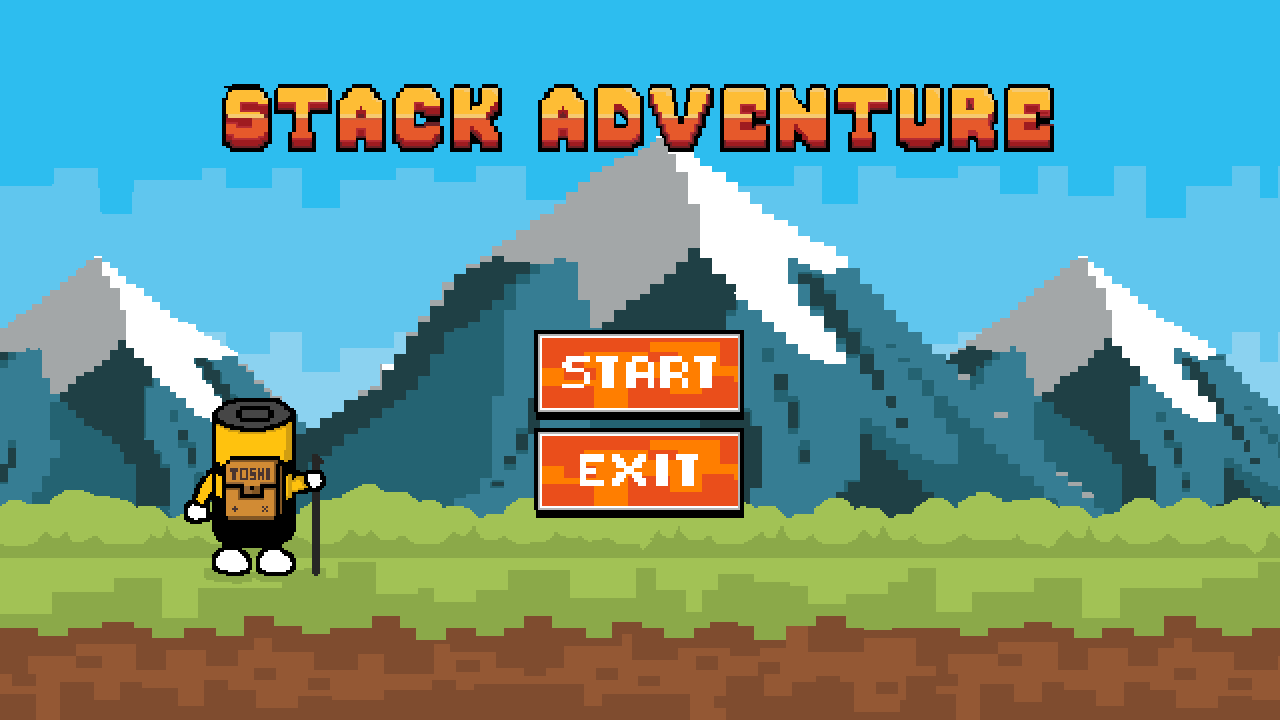
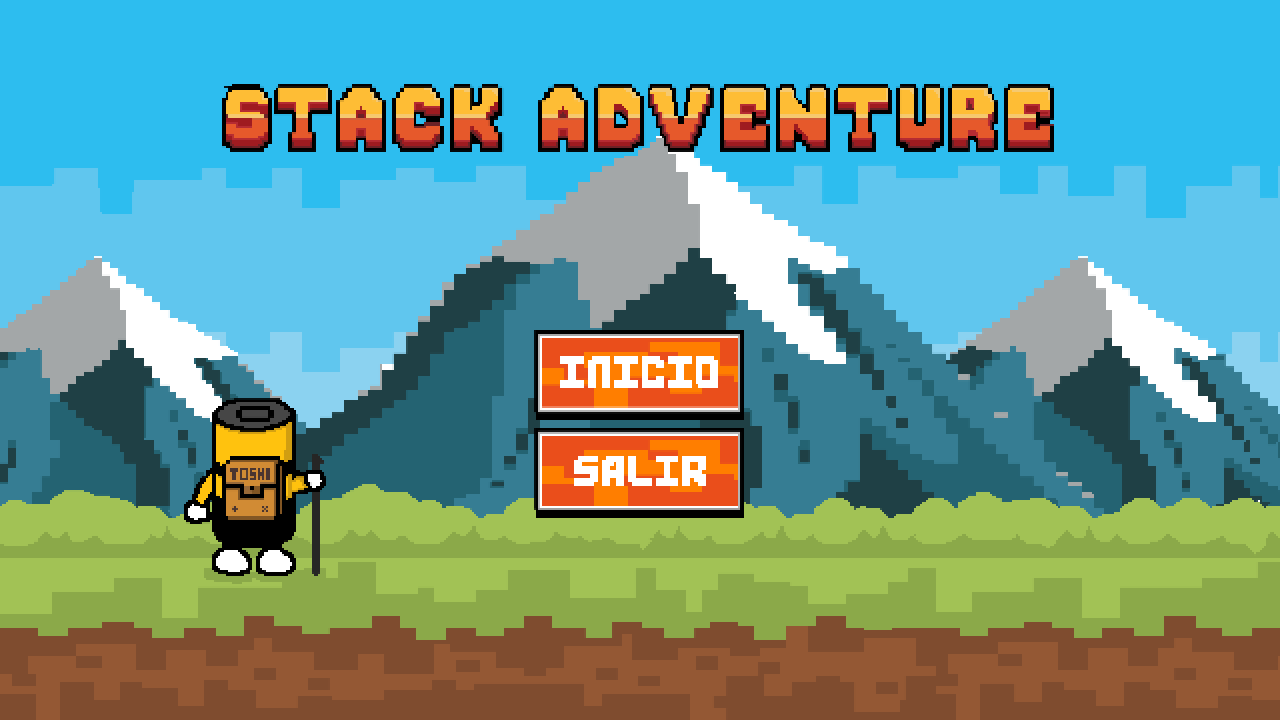
Prueba de niveles

Changed region(s): [[0.4375, 0.4889, 0.5625, 0.55], [0.4375, 0.6111, 0.5625, 0.6722]]

diff --git a/Menu/inicio.py b/Menu/inicio.py
@@ -9,33 +9,33 @@ sys.path.append(os.path.abspath(os.path.join(os.path.dirname(__file__), '..')))
 import config
 
 pygame.init()
+pygame.mixer.init()
 
 font = pygame.font.Font(None, 36)
 
 boton_jugar = pygame.Rect(535, 330, 210, 85)
 boton_salir = pygame.Rect(535, 430, 210, 85)
+boton_nuevo = pygame.Rect(535, 275, 210, 85)
+boton_cargar = pygame.Rect(535, 375, 210, 85)
+boton_volver = pygame.Rect(535, 475, 210, 85)
 
-img_path = os.path.join(config.MENU_DIR,"menu.png")
+img_path = os.path.join(config.MENU_DIR, "menu.png")
 img = pygame.image.load(img_path)
 
-screen = pygame.display.set_mode((1280, 720))
+game_path = os.path.join(config.MENU_DIR, "game.png")
+game = pygame.image.load(game_path)
 
+screen = pygame.display.set_mode((1280, 720))
 
 def inicio():
     running = True
     while running:
-        pygame.draw.rect(screen, (255, 255, 255), boton_jugar)
-        pygame.draw.rect(screen, (255, 255, 255), boton_salir)
-
         screen.blit(img, (0, 0))
-
-        # Cambiar el cursor del mouse según su posición
         mouse_pos = pygame.mouse.get_pos()
         if boton_jugar.collidepoint(mouse_pos) or boton_salir.collidepoint(mouse_pos):
             pygame.mouse.set_cursor(pygame.SYSTEM_CURSOR_HAND)
         else:
             pygame.mouse.set_cursor(pygame.SYSTEM_CURSOR_ARROW)
-
         for event in pygame.event.get():
             if event.type == pygame.QUIT:
                 running = False
@@ -46,6 +46,23 @@ def inicio():
                 if boton_jugar.collidepoint(mouse_pos):
                     pygame.mouse.set_cursor(pygame.SYSTEM_CURSOR_ARROW)
                     running = False
+                    screen.blit(game, (0, 0))
+                    while True:
+                        for event in pygame.event.get():
+                            if event.type == pygame.QUIT:
+                                pygame.quit()
+                                sys.exit()
+                            if event.type == pygame.MOUSEBUTTONDOWN:
+                                mouse_pos = event.pos
+                                if boton_nuevo.collidepoint(mouse_pos) or boton_cargar.collidepoint(mouse_pos):
+                                    pygame.mouse.set_cursor(pygame.SYSTEM_CURSOR_HAND)
+                                    running = False
+                                elif boton_volver.collidepoint(mouse_pos):
+                                    pygame.mouse.set_cursor(pygame.SYSTEM_CURSOR_HAND)
+                                    running = True
+                                    while running:
+                                        inicio()
+                        pygame.display.update()
                 elif boton_salir.collidepoint(mouse_pos):
                     pygame.mouse.set_cursor(pygame.SYSTEM_CURSOR_ARROW)
                     running = False

diff --git a/juegos/decisiones/recursos/contenedor.py b/juegos/decisiones/recursos/contenedor.py
@@ -1,12 +1,17 @@
+import sys
+import os
+import config
 import pygame
 import textwrap
+
+sys.path.append(os.path.abspath(os.path.join(os.path.dirname(__file__), '..')))
 
 class Contenedor:
     def __init__(self, x, y, ancho, alto, color, texto):
         self.forma = pygame.Rect(x, y, ancho, alto)
         self.color = color
         self.texto = texto
-        self.fuente = pygame.font.Font('assets/fonts/minecraft.ttf', 23)
+        self.fuente = pygame.font.Font(os.path.join(config.FONTS_DIR, "minecraft.ttf"), 23)
     
     def dibujar(self, screen):
         pygame.draw.rect(screen, self.color, self.forma, border_radius = 20)
